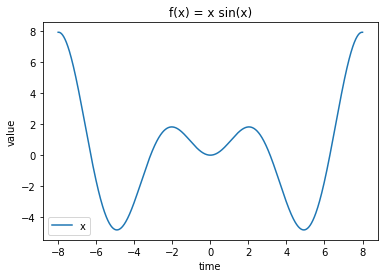
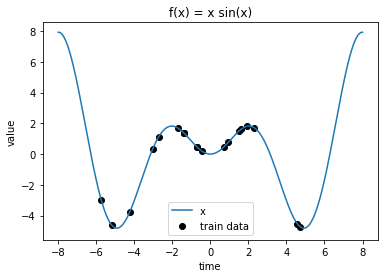
results more or less finished

diff --git a/main.tex b/main.tex
@@ -131,15 +131,15 @@ To train a DL model in Nengo network nodes in the DL architecture are substitute
 
 During testing of the trained models, the SoftLIF units were exchanged for their spiking counterparts while maintaining the rest of the network architecture. In order to simulate dropout in classical networks, each test input was presented to the network for an extended period of time while propagating the activity through the network. The spiking behavior of the LIF neurons naturally simulates the random deactivation of neurons using dropout. Therefore, the network output varies over time. Collecting this output for a number of time steps $T$ allows to obtain a mean activation and its variance, representing the models epistemic uncertainty. If the model is trained extensively the network output should vary relatively little, corresponding to very confident predictions, while an untrained model will oscillate strongly. 
 
-In order to test the suitability of the described approach to obtain uncertainty estimates, both the classical MC dropout with rate based neurons as well as the spiking version were applied to the same test data. The results were analyzed both quantitatively as well as qualitatively. For qualitative analysis, the mean network outputs are visualized alongside the networks uncertainty estimate. Quantitatively, the uncertainty estimate obtained by MC dropout is taken as a reference standard and correlated with the uncertainty estimates from the trained spiking network and a non-trained baseline architecture. Mean and standard deviations of 10 simulations are reported in the results section.   
+In order to test the suitability of the described approach to obtain uncertainty estimates, both the classical MC dropout with rate based neurons as well as the spiking version were applied to the same test data. The results were analyzed both quantitatively as well as qualitatively. For qualitative analysis, the mean network outputs are visualized alongside the networks uncertainty estimate. Quantitatively, the uncertainty estimate obtained by MC dropout is taken as a reference standard and correlated with the uncertainty estimates from the trained spiking network and a non-trained baseline architecture. All models are evaluated on $1000$ test points and correlation and significance are computed using Pearson's correlation coefficient. Significance of the difference of the correlations was tested using Fisher's z-transform. 
 
 \section{Experiments}
 Two different experiments were performed to investigate the suitability of our proposed technique. Both experiments were taken from the original literature proposing the use of dropout to obtain Bayesian uncertainty estimates. The first experiment was introduced in a prominent Blogpost by Yarin Gal (cite) and constitutes a toy example that allowed for comparison on a simple task. The second experiment is taken from \cite{gal2016dropout} introduced to motivate the suitability of MC dropout for obtaining uncertainty estimates. Both experiments deal with regression tasks. 
 
-\paragraph{Experiment I} In the first experiment a neural network is trained to approximate a simple one-dimensional function:
+\subsection{Experiment I} In the first experiment a neural network was trained to approximate a simple one-dimensional function:
 
 \begin{align}
-f: \mathds{R} \to \matds{R}, x \mapsto x\sin{(x)}
+f: \mathds{R} \to \mathds{R}, x \mapsto x\sin{(x)}
 \end{align}
 
 visualized in Figure \ref{fig:exp1_func}.
@@ -149,7 +149,84 @@ visualized in Figure \ref{fig:exp1_func}.
 \includegraphics[width=\linewidth]{function.png}
 \caption{Visualization of the function $f$ learned in Experiment I}\label{fig:exp1_func}
 \end{figure}
+
+The network was trained on a limited set of $20$ datapoints with $x$-values randomly sampled from a  normal distribution with zero mean and unit variance. Hence, most of the training samples are centered around zero, while only a few data points at the margins of the function are presented to the network. The data is depicted in Figure \ref{fig:exp1_func}. A well calibrated uncertainty would thus be low around zero and increase towards more extreme values. The network was tested on the entire range $[-8,8]$.
+
+Since the task is relatively simple a shallow neural network of two hidden layers with 50 units each was trained. Dropout with a drop probability $p=0.05$ was employed after the first hidden layer. The network was trained for $1000$ epochs with a minibatch size of $5$ and Mean-Squared-Error criterion. As an optimizer RMSprop \cite{tieleman2012rmsprop} was used with a fixed learning rate of $1e-3$. No weight decay regularization was applied.
+
+For testing the classical MC dropout variation $T=20$ dropout samples were calculating by forwarding each test input $T$ times through the network. For the spiking network, all network nodes were replaced by spiking LIF neurons and each test input was presented for $100$ simulated time steps corresponding to a simulated time of $0.1$ seconds. The last $T$ time steps were then taken to estimate the mean and variance of the prediction. As a baseline the same network with randomly initialized weights was used to predict the test data. 
+
+\subsection{Experiment II}
+
+In the second experiment a more complex, real-world example was investigated. The Atmospheric $CO_2$ data set\footnote{http://scrippsco2.ucsd.edu/data/atmospheric\_co2/primary\_mlo\_co2\_record} provides monthly values of atmospheric $CO_2$ concentration measured at the Mauna Loa Observatory in Hawaii.
+Before training the data was demeaned, detrended, and normalized to the range $[-2,2]$. The data can be seen in blue in Figure \ref{fig:exp2}.
+
+The network was trained on the first $300$ data points and evaluated on the last $100$. Since the task is considerably more difficult due to the high frequency fluctuations in the data, a deeper neural network architecture was used. A network of five hidden layers with $1024$ neurons each was trained for $25000$ epochs. Since the dataset is small and of high frequencies, large minibatches of $100$ samples were used, resulting in a total of $75000$ gradient updates. Dropout with $p=0.1$ was used after each hidden layer. The network was trained with stochastic gradient descent and nesterov momentum. A momentum term of $0.9$ was used. An initial learning rate of $0.01$ was decreased exponentially with a decay factor of $0.96$ in a staircase procedure after every $1000$ parameter updates. Mean-squared-error loss was used with a weight-decay term of $1e-6$. For both non-spiking and spiking networks $T=50$ ``dropout'' samples were obtained during testing.
+
 \section{Results}
+
+
+\subsection{Experminent I}
+
+Despite a quite limited training dataset the continuous network learned to capture the function well around zero. Further away from zero no training data was seen anymore such that the network could not learn to approximate the function at these values. As to be expected, converting the network to its spiking versions causes some loss in accuracy, but the network still approximates the function well around zero. The mean output of both networks and the baseline network can be seen depicted in blue in Figure \ref{fig:exp1}. Epistemic uncertainty for all networks is shown in orange in terms of two standard deviations surrounding the mean. 
+
+In Figure \ref{subfig:exp1_mc} it is well visible that the MC dropout captures the epistemic uncertainty well, with very low values around zero, were the function is well approximated, and increasing towards the margins were the network has seen fewer training examples. These results confirm the results of Gal. 
+
+Figure \ref{subfig:exp1_spike} shows the results for the spiking uncertainty estimate. The network captures the function similarly well but the uncertainty is generally much higher, indicating a higher variation in the neural network output. Nevertheless, the network also captures the fact that the function is better approximated around zero and less well away from it. Generally the uncertainty appears like a scaled version of the MC dropout uncertainty. Since uncertainty is unit-less and for most applications only the relative uncertainty between different test datapoints is relevant, in practice this scaling should not pose a problem. 
+
+\begin{figure*}[t]
+\centering
+\begin{subfigure}[t]{0.3\textwidth}
+\centering
+\includegraphics[width=\linewidth]{gal_uncertainty4.png}
+\caption{Classical MC dropout}\label{subfig:exp1_mc}
+\end{subfigure}
+\begin{subfigure}[t]{0.3\textwidth}
+\centering
+\includegraphics[width=\linewidth]{spiking_uncertainty2.png}
+\caption{Spiking neural network}\label{subfig:exp1_spike}
+\end{subfigure}
+\begin{subfigure}[t]{0.3\textwidth}
+\centering
+\includegraphics[width=\linewidth]{random_uncertainty.png}
+\caption{Baseline network}\label{subfig:exp1_base}
+\end{subfigure}
+\caption{Neural network mean and uncertainty of prediction for Experiment I of classical, spiking, and baseline network.}\label{fig:exp1}
+\end{figure*}
+
+Figure \ref{subfig:exp1_base} shows the output of the non-trained baseline spiking network. As expected the network outputs zero for all test inputs, since no function has been learned. The uncertainty of the network still is low for a test input of 0 and increases slightly for values further away. This can be explained since the network always outputs 0 for zero input since the network is not active without external activation and higher input values generally drive the network more strongly such that the values further away from zero cause stronger fluctuations. 
+
+For a quantitative analysis, the variance values of all test inputs of the rate-based network were correlated with the variances of the spiking networks. The MC dropout estimate and the spiking variance correlated significantly with a Pearson's $r = 0.61, p < 0.001$. Also the baseline correlated significantly with $r = 0.39, p < 0.001$. This can be explained since the large amount of test samples increases the power and thus the chances to finding significant correlations and since the variance of the random network does follow a superficially similar pattern. 
+
+To test whether the trained spiking network still provides a better estimate of uncertainty than the random network, the correlation coefficients were compared using Fisher's z-transformation. The test indicated a significant difference in correlation coefficients with $z = -6.6, p < 0.001$.
+
+
+\subsection{Experiment II}
+
+The second experiment posed a considerably harder problem and we used larger models and more training to address this challenge. Nevertheless, the neural networks where only able to approximate the target function to a limited extent. The results can be seen in Figure \ref{fig:exp2}. Again the spiking network looses accuracy compared to the rate-based network but this time to a much larger extent, such that the function cannot be said to be well approximated by the network. Generally both networks do not learn the function successfully over the full input domain. In Figure \ref{subfig:exp2_mc} it can be seen that the network captures the functions in some parts around an $x$-value of 0. \citeA{gal2016dropout} trained their network for $1.000.000$ iterations while our network was only trained for $75.000$ iterations. Therefore it might be possible to achieve better results with more training time. 
+
+The MC dropout uncertainty captures the problem specification to some extent in that the uncertainty estimate is larger for values not seen during training (indicated by the vertical black like). Yet, the difference is to samples in the training set is relatively, putting the practical applicability for out-of-data sample detection into question. Nevertheless, the uncertainty estimate does resemble the uncertainty reported for tanh activation function in \cite{gal2016uncertainty}. It is not surprising that the uncertainty is more similar to that of tanh neurons that of rectified linear units, since the maximum firing rate of LIF neurons is bounded as is the tanh activation function. 
+
+
+\begin{figure*}[t]
+\centering
+\begin{subfigure}[t]{0.45\textwidth}
+\centering
+\includegraphics[width=\linewidth]{gal_co2_report.png}
+\caption{Classical MC dropout}\label{subfig:exp2_mc}
+\end{subfigure}
+\begin{subfigure}[t]{0.45\textwidth}
+\centering
+\includegraphics[width=\linewidth]{spike_co2_report.png}
+\caption{Spiking neural network}\label{subfig:exp2_spike}
+\end{subfigure}
+\caption{Neural network mean and uncertainty of prediction for Experiment II of classical, and spiking network.}\label{fig:exp2}
+\end{figure*}
+
+The spiking network output is depicted in Figure \ref{subfig:exp2_spike}. The network cannot be said to capture the target function well. The high frequency data is smoothed out by averaging over the spiking output. Again, more extensive training could partly resolve this issue, if also the rate-based version better captured the target. In this case, the uncertainty of the spiking network does not really reveal which part of the data is unknown to the network since even parts of the training data are not approximated well. Interestingly the uncertainty \emph{does} reveal those parts of the data that are captured well by the rate-based network but not well approximated by the spiking network. This indicates that the uncertainty estimate can still be an informative measure when the original continuous network is well calibrated. 
+
+Again, the uncertainties were compared quantitatively by calculating the Pearson correlation coefficients. The MC dropout uncertainty still correlated significantly with the spiking uncertainty with $r = 0.59, p < 0.001$. The random baseline network did not correlate significantly with the reference uncertainty with $r = -0.001, p > 0.9$. The difference between the correlation coefficients was significant with $z = 4.75, p < 0.001$.
+
 
 \section{Discussion}
 
